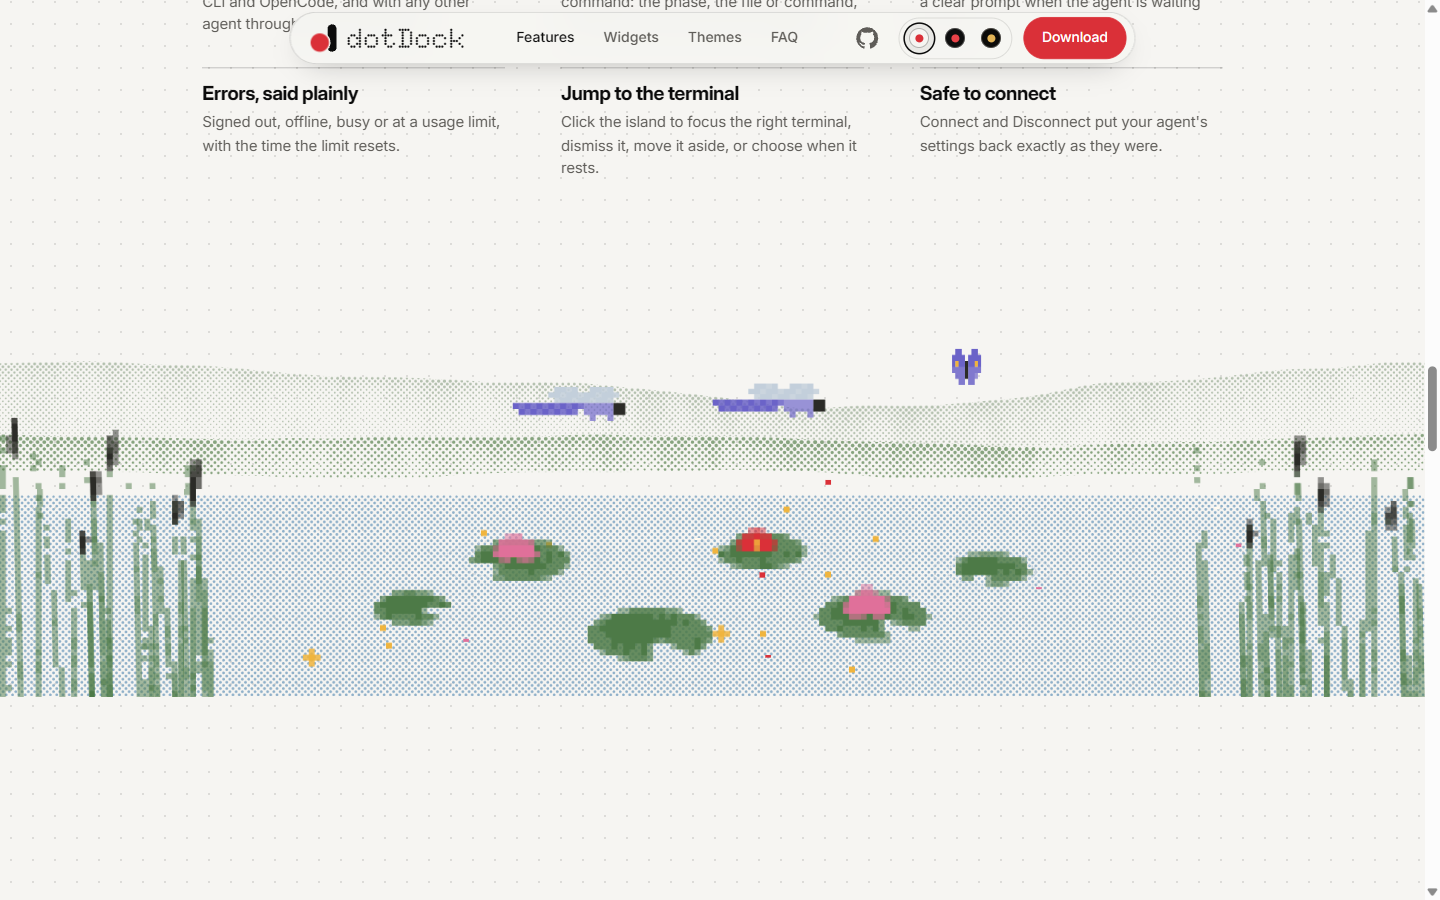
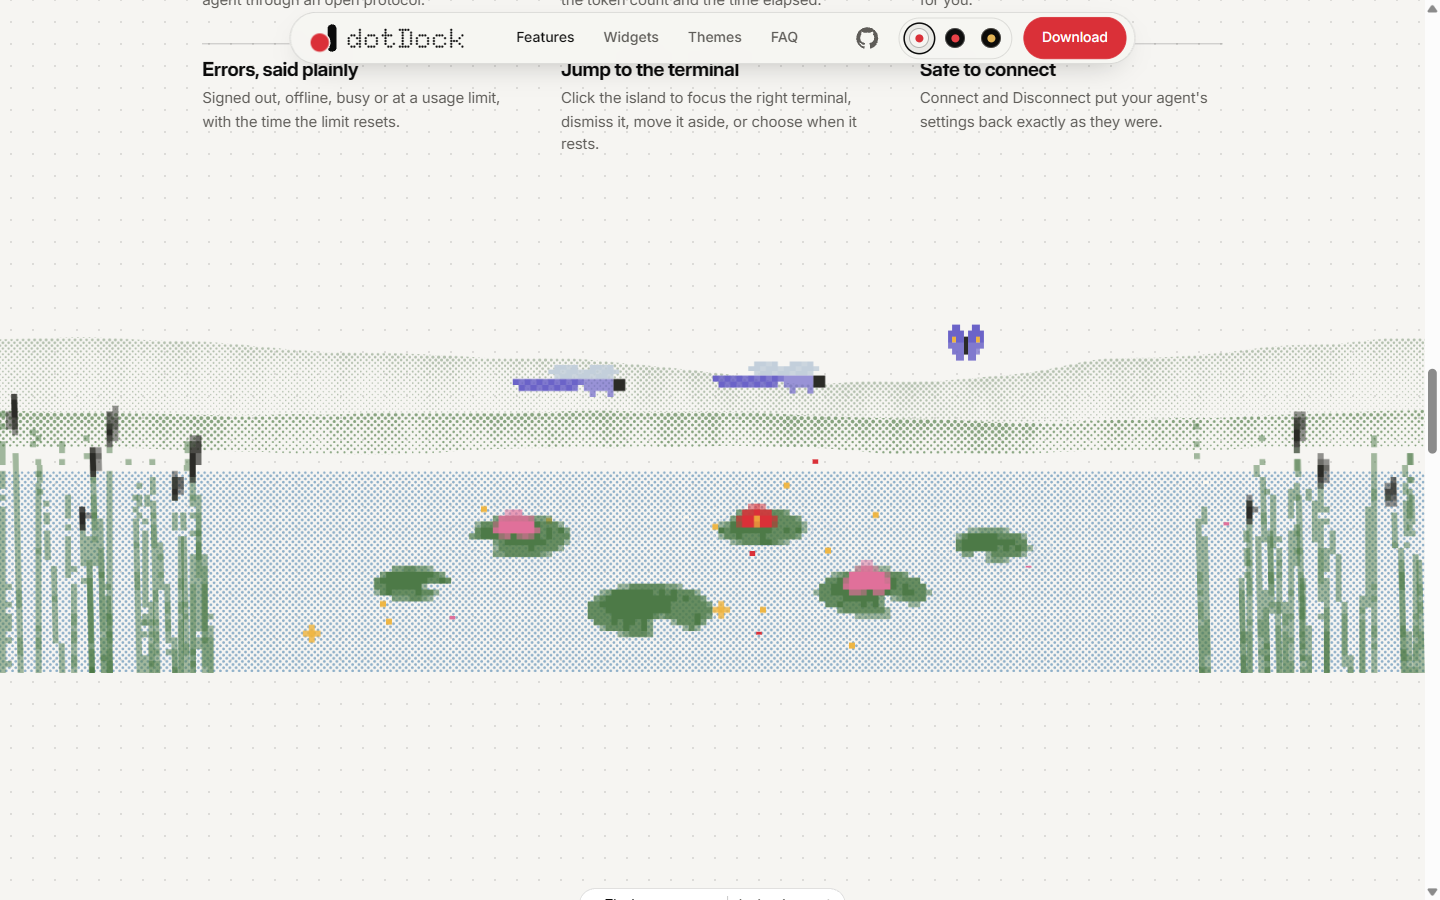
fix(qa): scroll instantly in the QA scripts, fresh scene captures, decisions D-026
The site scrolls smoothly, so a capture taken right after scrollTo caught the page still
moving (the 390 pond shot showed the top of the page); the scripts now scroll instantly.
Fresh scene captures at every width and theme; scene check 24 boxes, 0 problems. D-026 records
the meadow and living-scene decisions; BLOCKERS notes the battery-saver frame run.

diff --git a/docs/DECISIONS.md b/docs/DECISIONS.md
@@ -145,3 +145,13 @@ Numbered D-021 because D-020 exists on this branch; renumber on merge if another
 - **Visit counter.** `/api/visits` is the site's only on-demand route (Vercel adapter, static pages otherwise). One Redis number (Upstash through the Vercel Marketplace), `KV_REST_API_*` or `UPSTASH_REDIS_REST_*`. A browser counts once per day (the day is kept in localStorage); nothing else is stored, no IP, no cookie. Without credentials the route answers 503 and the footer line stays hidden. Local preview is `tools/preview.mjs` because Astro's preview does not support the Vercel adapter. Reverse: delete `src/pages/api`, `src/lib/visits.ts`, `src/scripts/visits.ts`, the adapter lines in `astro.config.mjs`.
 - **No per-part toggles on the site.** dotDock is presented as one environment; the "modular, switch off what you do not want" section was removed on the owner's instruction.
 - **Videos.** `VideoSlot.astro` renders only when `public/video/<name>.mp4` and `<name>-poster.webp` exist, so nothing empty or faked ships. See docs/design/LAUNCH_VIDEO.md for the cuts.
+
+## D-026 Download page meadow and living scenes (download-page track)
+Numbered D-026 because main has D-025; renumber on merge if another track took it.
+- **The download page has its own scenery,** a golden-hour meadow in layers (siteart/vista.py) that each move on their own: clouds drift, sparkles twinkle, two sets of grass and big flowers lean out of step, butterflies and a profile dragonfly fly paths, petals blow loose. It is a full-width band between the release head and the facts, never under text.
+- **Living scenes are one reusable module** (components/LiveScene.astro, lib/live-scenes.ts, styles/live.css, scripts/scene-motion.ts) fed by siteart/live.py. Each page gets its own subject: a grazing horse on the home page (in the slot of the static horse band), a pond with lily pads and dragonflies on the Features page (in the slot of the static pond band), an octopus among weed on the Privacy page (in place of its bottom band, through `sceneBottom` on layouts/Page.astro).
+- **Geometry comes from the drawing code.** The pivots the horse's head and tail and the octopus turn about, the stage sizes and the dragonfly's wing root are exported to src/data/live-scenes.json (tools/site-art/live_export.py), so the CSS holds no hand-copied coordinates.
+- **A scene is a band with a fixed aspect ratio.** On a phone the stage keeps a minimum width (560 px narrow, 1200 px wide) and is cropped at the sides, so the subject in the middle keeps its size, the band stays short, and nothing scrolls sideways. Sprites marked wide-only are not shown on a phone.
+- **Motion is transform and opacity only**, paused off screen by an IntersectionObserver (no timers), and none at all under reduced motion.
+- **A render that lacks a colour hides that layer** (lib/art.ts): without a mask a layer paints its whole box, which showed as a solid pink or cream block on a phone. Roles are now listed from every render.
+- **QA browsers stay off the owner's screen** (owner, 12:15): tools/cdp.mjs opens Chrome off screen with occlusion tracking off, so frame times stay real.

diff --git a/docs/BLOCKERS.md b/docs/BLOCKERS.md
@@ -9,3 +9,6 @@
 - **Meanwhile:** Safety scripts, docs, design system, wallpaper generator and the web UI layer go ahead.
 - **Root cause (2026-11-19):** Windows Installer service unavailable; VS bootstrapper exits 8012 at `MsiAvailabilityCheck`.
 - **Resolution:** builds move to GitHub Actions; local GNU toolchain for check/test (D-005).
+
+## 2026-11-21 13:40 download-page track: frame-time run on battery saver
+The last full scene QA run (docs/QA/website-art-live/report-all.txt) was taken with the laptop on battery at 11 %, where Windows caps the display at 30 Hz: every frame there is 33 ms, including idle pages, so it is not a measure of the scenes. The run on mains (report-perf.txt) is the evidence. Rerun `node tools/scene-qa.mjs http://127.0.0.1:4361 ../docs/QA/website-art-live perf` on mains before release.
